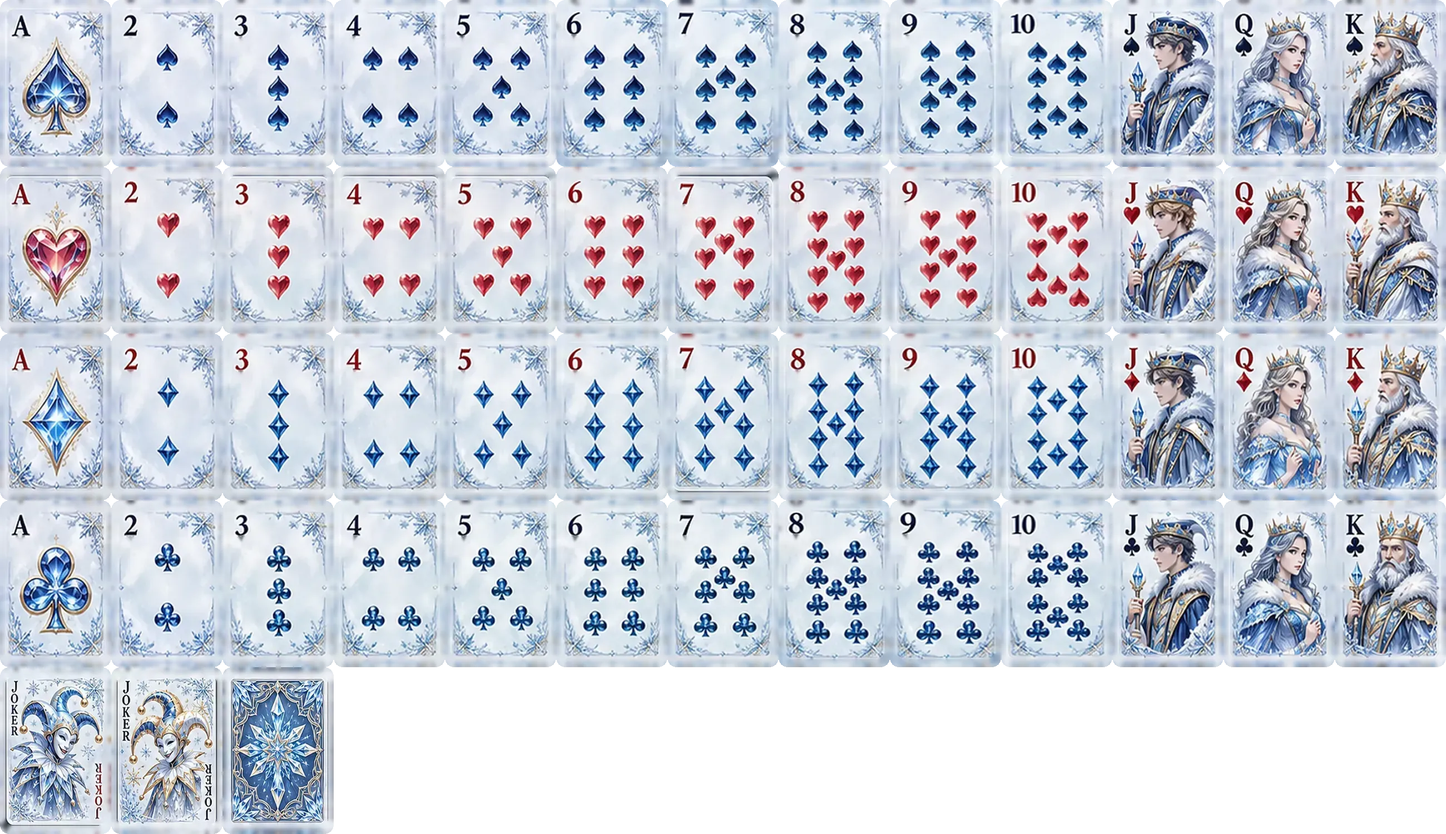
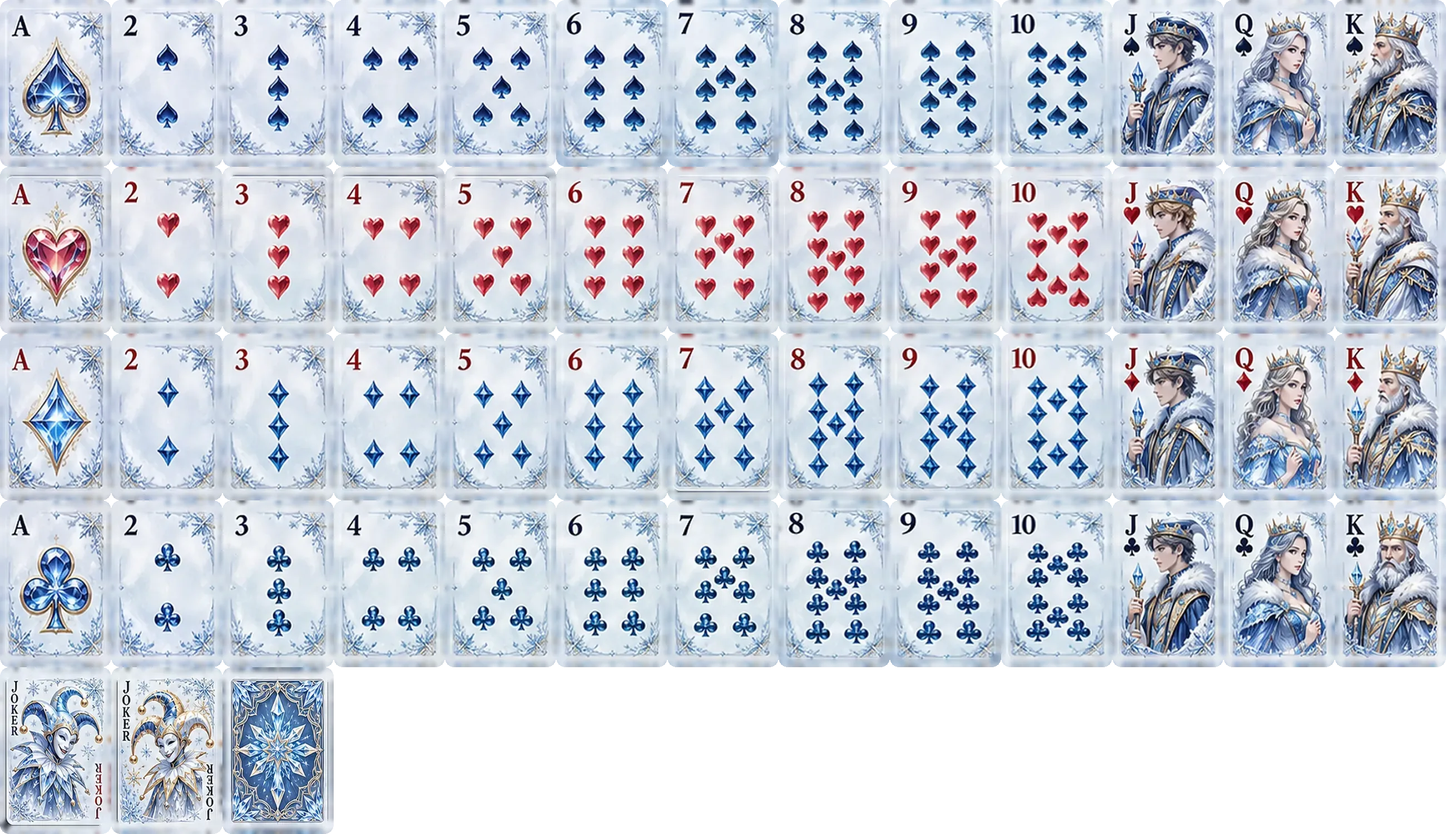
Card designs: clean corner indexes on every number card; free Classic Dark cards
Claude-Session: https://claude.ai/code/session_0152ctjGmspsyMwyXD4bKWjs

Changed region(s): [[0.0935, 0.7973, 0.1558, 0.9813], [0.4673, 0.184, 0.5296, 0.3067]]

diff --git a/index.html b/index.html
@@ -942,6 +942,14 @@ input.locked{opacity:.85;cursor:default}
 .prbacks{display:grid;grid-template-columns:repeat(5,1fr);gap:6px;margin:0 auto 6px;max-width:300px}
 .prbacks i{aspect-ratio:2/3;border-radius:5px;background:center/cover;box-shadow:0 2px 6px rgba(0,0,0,.5)}
 .ctile.pv{box-shadow:0 0 0 2px #b9a7d6!important}
+/* ---- Classic Dark cards ---- */
+.card.darkc,.hand .card.darkc,.game.lux .hand .card.darkc{background:linear-gradient(165deg,#2a2140 0%,#171026 60%,#0e0918 100%)!important;border:2px solid #c9a24a!important;box-shadow:0 0 0 1px #000,0 6px 12px rgba(0,0,0,.6)!important;color:#f3e6c8!important}
+.card.darkc.red,.hand .card.darkc.red{color:#ff6b7d!important}
+.card.darkc em,.hand .card.darkc em{color:#cdb98a!important;opacity:.85!important}
+.card.darkc.red em,.hand .card.darkc.red em{color:#ff9aa6!important}
+.card.darkc.joker .star,.hand .card.darkc.joker .star{color:#c79bff!important}
+.card.darkc.joker small,.hand .card.darkc.joker small{color:#c79bff!important}
+.cback.dk{background:linear-gradient(165deg,#2a2140,#0e0918)!important;border:1.5px solid #c9a24a;color:#ff6b7d}
 
 </style>
 </head>
@@ -949,7 +957,7 @@ input.locked{opacity:.85;cursor:default}
 <script src="https://www.gstatic.com/firebasejs/10.12.2/firebase-app-compat.js"></script>
 <script src="https://www.gstatic.com/firebasejs/10.12.2/firebase-database-compat.js"></script>
 <script src="https://www.gstatic.com/firebasejs/10.12.2/firebase-auth-compat.js"></script>
-<script>window.SUPER_TOCK_FIREBASE = {"apiKey":"AIzaSyCN0eAzW7qH4pUAIQc6UZVzO-Is4Xve2wc","authDomain":"super-tock-7b8e2.firebaseapp.com","databaseURL":"https://super-tock-7b8e2-default-rtdb.firebaseio.com","projectId":"super-tock-7b8e2","storageBucket":"super-tock-7b8e2.firebasestorage.app","messagingSenderId":"70900079089","appId":"1:70900079089:web:5946d4b1a71152edb80c50","measurementId":"G-9B3N30TTK7"}; window.SUPER_TOCK_BOARDS = true; window.SUPER_TOCK_BUILD = '20261126000908';</script>
+<script>window.SUPER_TOCK_FIREBASE = {"apiKey":"AIzaSyCN0eAzW7qH4pUAIQc6UZVzO-Is4Xve2wc","authDomain":"super-tock-7b8e2.firebaseapp.com","databaseURL":"https://super-tock-7b8e2-default-rtdb.firebaseio.com","projectId":"super-tock-7b8e2","storageBucket":"super-tock-7b8e2.firebasestorage.app","messagingSenderId":"70900079089","appId":"1:70900079089:web:5946d4b1a71152edb80c50","measurementId":"G-9B3N30TTK7"}; window.SUPER_TOCK_BOARDS = true; window.SUPER_TOCK_BUILD = '20261126002603';</script>
 <div id="app"></div>
 <script>
 // ===== Super Tock engine (pure game logic, no DOM) =====
@@ -5392,7 +5400,7 @@ const CARD_PASS = CARDSETS.map(c => ({lv:c.lv, kind:'cards', id:c.id}));
 const CARDSET = id => CARDSETS.find(c => c.id === id) || null;
 const prOn = () => !!(ACH.stats && ACH.stats.pr);
 function cardsOwned(id){
-  if (!id || id === 'classic') return true;
+  if (!id || id === 'classic' || id === 'dark') return true;
   if (typeof TESTALL !== 'undefined' && TESTALL) return true;
   const c = CARDSET(id); return !!(c && prOn() && levelOf(curXP(ACH.stats)).lv >= c.lv);
 }
@@ -5409,6 +5417,7 @@ function skinFace(id, r, s){
 }
 const _cardFacePr = cardFace;
 cardFace = function(r, s, cls, note){
+  if (profile.cards === 'dark' && cls !== 'mini') return _cardFacePr(r, s, ((cls || '') + ' darkc').trim(), note);
   const id = myCards();
   if (!id || cls === 'mini') return _cardFacePr(r, s, cls, note);
   let col, row;
@@ -5477,17 +5486,18 @@ function prBurst(){
 let cardSheet = false, cardPrev = null;
 function cardSheetHTML(){
   const cur = myCards();
-  const tile = (id, name, img, ok, how) => `<button class="mtile ctile ${(cur || 'classic') === id ? 'on' : ''} ${cardPrev === id && (cur || 'classic') !== id ? 'pv' : ''} ${ok ? '' : 'locked'}" data-a="cpick" data-v="${id}">
-      <i class="cback" style="${img ? `background-image:url(${img})` : ''}">${img ? '' : '<span>♠♥<br>♦♣</span>'}</i>${ok ? '' : '<em class="clock">🔒</em>'}<b>${esc(name)}</b>${ok ? '' : `<small>${how}</small>`}</button>`;
-  const pid = cardPrev || cur || 'classic', pc = CARDSET(pid);
+  const curk = profile.cards === 'dark' ? 'dark' : (cur || 'classic');
+  const tile = (id, name, img, ok, how) => `<button class="mtile ctile ${curk === id ? 'on' : ''} ${cardPrev === id && curk !== id ? 'pv' : ''} ${ok ? '' : 'locked'}" data-a="cpick" data-v="${id}">
+      <i class="cback ${id === 'dark' ? 'dk' : ''}" style="${img ? `background-image:url(${img})` : ''}">${img ? '' : '<span>♠♥<br>♦♣</span>'}</i>${ok ? '' : '<em class="clock">🔒</em>'}<b>${esc(name)}</b>${ok ? '' : `<small>${how}</small>`}</button>`;
+  const pid = cardPrev || curk, pc = CARDSET(pid);
   const prev = pc
     ? `<div class="cprev"><i class="cback big" style="background-image:url(${cardBack(pid)})"></i>${skinFace(pid, '10', '♥')}${skinFace(pid, 'K', '♠')}${skinFace(pid, 'JK', '')}</div>
        <p class="cpname"><b>${esc(pc.name)}</b>${cardsOwned(pid) ? ' · In use' : ` · 🔒 ${prOn() ? 'Prestige level ' + pc.lv : 'Prestige, then level ' + pc.lv}`}</p>`
-    : `<div class="cprev">${[['10','♥'],['K','♠'],['Q','♦'],['A','♣']].map(([r, s]) => _cardFacePr(r, s, '', '')).join('')}</div><p class="cpname"><b>Classic</b>${!cur ? ' · In use' : ''}</p>`;
+    : `<div class="cprev">${[['10','♥'],['K','♠'],['JK',''],['A','♣']].map(([r, s]) => _cardFacePr(r, s, pid === 'dark' ? 'darkc' : '', '')).join('')}</div><p class="cpname"><b>${pid === 'dark' ? 'Classic Dark' : 'Classic Light'}</b>${curk === pid ? ' · In use' : ' · Free'}</p>`;
   return `<div class="mpicker" data-a="cpx"><div class="mbox" data-a="noop">
     <h3 class="lh3" style="margin-top:0">CARDS</h3>${prev}
-    <p class="hint center">${prOn() ? 'New designs unlock every 5 levels on your Prestige Road to 50.' : 'Reach level 50 and Prestige to start unlocking card designs.'}</p>
-    <div class="mgrid cgrid">${tile('classic', 'Classic', '', true, '')}${CARDSETS.map(c => tile(c.id, c.name, cardBack(c.id), cardsOwned(c.id), `Prestige · Level ${c.lv}`)).join('')}</div>
+    <p class="hint center">Classic Light and Dark are free. ${prOn() ? 'New designs unlock every 5 levels on your Prestige Road to 50.' : 'Reach level 50 and Prestige to unlock the rest.'}</p>
+    <div class="mgrid cgrid">${tile('classic', 'Classic Light', '', true, '')}${tile('dark', 'Classic Dark', '', true, '')}${CARDSETS.map(c => tile(c.id, c.name, cardBack(c.id), cardsOwned(c.id), `Prestige · Level ${c.lv}`)).join('')}</div>
     <button class="lux-btn" data-a="cpx"><span>DONE</span></button></div></div>`;
 }
 function drawCardSheet(){
@@ -5518,8 +5528,8 @@ render = function(){
   if (cardSheet && !['setup', 'lobby', 'profile'].includes(screen)) { cardSheet = false; drawCardSheet(); }
   const row = app.querySelector('.lookrow');
   if (row && !row.querySelector('[data-a="cardsopen"]') && ['setup', 'lobby', 'profile'].includes(screen)) {
-    const id = myCards(), c = id ? CARDSET(id) : null;
-    const html = `<button class="lkcards" data-a="cardsopen"><i class="cback sm" style="${c ? `background-image:url(${cardBack(id)})` : ''}">${c ? '' : '<span>♠♥</span>'}</i><span><small>CARDS</small><b>${c ? esc(c.name) : 'Classic'}</b></span></button>`;
+    const id = myCards(), c = id ? CARDSET(id) : null, dk = profile.cards === 'dark';
+    const html = `<button class="lkcards" data-a="cardsopen"><i class="cback sm ${dk ? 'dk' : ''}" style="${c ? `background-image:url(${cardBack(id)})` : ''}">${c ? '' : '<span>♠♥</span>'}</i><span><small>CARDS</small><b>${c ? esc(c.name) : dk ? 'Classic Dark' : 'Classic Light'}</b></span></button>`;
     const emo = row.querySelector('[data-a="emoopen"]');
     if (emo) emo.insertAdjacentHTML('beforebegin', html); else row.insertAdjacentHTML('beforeend', html);
   }

diff --git a/sw.js b/sw.js
@@ -1,6 +1,6 @@
 // Super Tock offline cache: the app, marbles, boards, fonts and the Firebase scripts are kept on the phone,
 // so computer games work with no signal. The page itself is always fetched fresh when there's a connection.
-const V = 'st-20261126000908';
+const V = 'st-20261126002603';
 const CORE = ['./', './index.html', './manifest.webmanifest', './apple-touch-icon.png', './icon-192.png', './icon-512.png', './favicon-32.png', './boards/amethyst-t.jpg', './boards/amethyst.jpg', './boards/billiards-t.jpg', './boards/billiards.jpg', './boards/blackmarble-t.jpg', './boards/blackmarble.jpg', './boards/dragon-t.jpg', './boards/dragon.jpg', './boards/frost-t.jpg', './boards/frost.jpg', './boards/galaxy-t.jpg', './boards/galaxy.jpg', './boards/gold-t.jpg', './boards/gold.jpg', './boards/lava-t.jpg', './boards/lava.jpg', './boards/pirate-t.jpg', './boards/pirate.jpg', './boards/poker-t.jpg', './boards/poker.jpg', './boards/roman-t.jpg', './boards/roman.jpg', './boards/roulette-t.jpg', './boards/roulette.jpg', './boards/ruins-t.jpg', './boards/ruins.jpg', './boards/whitemarble-t.jpg', './boards/whitemarble.jpg', './boards/wood-t.jpg', './boards/wood.jpg', './cards/dragon.webp', './cards/dragon_back.webp', './cards/emerald.webp', './cards/emerald_back.webp', './cards/frozen.webp', './cards/frozen_back.webp', './cards/galaxy.webp', './cards/galaxy_back.webp', './cards/ivory.webp', './cards/ivory_back.webp', './cards/japanese.webp', './cards/japanese_back.webp', './cards/obsidian.webp', './cards/obsidian_back.webp', './cards/p1.webp', './cards/pmax.webp', './cards/roulette.webp', './cards/roulette_back.webp', './cards/royal.webp', './cards/royal_back.webp', './cards/volcanic.webp', './cards/volcanic_back.webp', './marbles/aurora.webp', './marbles/black-diamond.webp', './marbles/cosmic-nebula.webp', './marbles/dark-aurora.webp', './marbles/diamond.webp', './marbles/dragon-scale.webp', './marbles/emerald.webp', './marbles/fire-ice.webp', './marbles/frost-crystal.webp', './marbles/galaxy.webp', './marbles/golden-dragon.webp', './marbles/golden-ember.webp', './marbles/inferno.webp', './marbles/obsidian-gold.webp', './marbles/prism-opal.webp', './marbles/prismatic.webp', './marbles/royal-amethyst.webp', './marbles/steampunk.webp', './marbles/storm-cloud.webp', './marbles/storm-lightning.webp', './marbles/stormborn.webp', './marbles/titanium.webp', './marbles/toxic-lime.webp', './marbles/turquoise.webp', './marbles/violet-magic.webp'];
 self.addEventListener('install', e => { e.waitUntil(caches.open(V).then(c => Promise.all(CORE.map(u => c.add(u).catch(() => {})))).then(() => self.skipWaiting())); });
 self.addEventListener('activate', e => { e.waitUntil(caches.keys().then(ks => Promise.all(ks.filter(k => k !== V).map(k => caches.delete(k)))).then(() => self.clients.claim())); });
